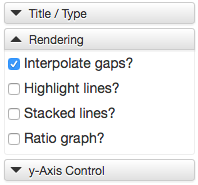
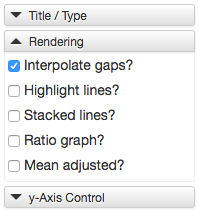
Fleshed out dygraph controls

Changed region(s): [[0.0, 0.0, 1.0, 0.8108], [0.0, 0.8378, 1.0, 0.973], [0.0606, 0.0541, 0.1212, 0.0811]]

diff --git a/user-guide.md b/user-guide.md
@@ -33,7 +33,7 @@ Various fields allow the specification of time periods. Aardvark uses the same s
 * **h** - hours
 * **d** - days
 * **w** - weeks
-* **n** - months
+* **n** - months - TODO
 * **y** - years
 
 ### Date/time formats
@@ -136,33 +136,40 @@ The dygraph renderer uses Dygraph to provide client-side rendered time series ch
 
 These options affect how time series are rendered. Some of these options may clash in unexpected ways, but full control is left to the user to mix and match as appropriate (unless otherwise noted).
 
-Gap interpolation draws a line between known points for a time series when there is another time series displayed with a point between them (this is only a gap in the data if you expect both time series to emit data points at the same time and no deduping of data points is occurring). If gap interpolation is disabled then a gap is shown in the time series.
-
-Highlight lines isn't really a rendering option, but more an interaction option - if enabled then hovering the mouse over a time series will highlight it in bold, useful for when you have many time series and want to pick on out.
-
-Stacked lines renders all time series on on top of the other, this includes baselines so mileage may vary there.
-
-Ratio graph renders each line by plotting the ratio of its value to the sum of all time series' values as a percentage at each point on the graph.
-
-Mean adjustment plots each line as a positive or negative difference from the average of all time series on a point by point basis. Quite handy when combined with a ratio graph to see how load is distributed across a cluster.
+* *Gap interpolation* - draws a line between known points for a time series when there is another time series displayed with a point between them (this is only a gap in the data if you expect both time series to emit data points at the same time and no deduping of data points is occurring). If gap interpolation is disabled then a gap is shown in the time series.
+* *Highlight lines* - isn't really a rendering option, but more an interaction option - if enabled then hovering the mouse over a time series will highlight it in bold, useful for when you have many time series and want to pick on out.
+* *Stacked lines* - renders all time series on on top of the other, this includes baselines so mileage may vary there.
+* *Ratio graph* - renders each line by plotting the ratio of its value to the sum of all time series' values as a percentage at each point on the graph.
+* *Mean adjusted* - plots each line as a positive or negative difference from the average of all time series on a point by point basis. Quite handy when combined with a ratio graph to see how load is distributed across a cluster. Incompatible with negative squashing.
 
 #### y-Axis controls
 
 ![dygraph y-axis options screenshot](graph_controls_dygraph_yaxis.png)
 
-TODO
+The dygraph renderer supports both a left (Y) and right (Y2) axis and each can be individually controlled:
+
+* *Squash -ve* - excludes negative points from the chart. Incompatible with mean adjusted charts.
+* *Auto scale* - Scales timeseries to the same order of magnitude using the max absolute value from each unique metric name. Incompatible with logarithmic axes
+* *Logarithmic y-axis* - plots points on a logarithmic scale (the default is linear). Incompatible with auto scaling.
+* *Range* - in the format *\[<min>:<max>\]* (where the square brackets, <min> and <max> are all optional. Limits the rendered points to those within the range given (inclusive).
+
 
 #### Annotations
 
 ![dygraph annotations options screenshot](graph_controls_dygraph_annotations.png)
 
-TODO
+The dygraph renderer supports annotation rendering:
+
+* *Annotations* - enables retrieval and display of annotations attached to any time series being rendered.
+* *Global annotations* - enables retrieval and display of any global annotations.
 
 #### Filtering controls
 
 ![dygraph filtering options screenshot](graph_controls_dygraph_filtering.png)
 
-TODO
+Aardvark supports additional filtering of results received from OpenTSDB prior to rendering, allowing a reduction in the number of time series displayed, 2 'modes' are supported, which are ANDed together to determine the final list of time series to be displayed:
+* *Count filtering* - Includes either the top n or bottom n set of series, based on an aggregation of all the values in the series.
+* *Value filtering* - Includes time series where points meet the value conditions you specify. These consider either every point in the series (in which case a single hit includes the series) or an aggregation of the series.
 
 ### Scatter renderer
 
@@ -174,8 +181,8 @@ The scatter renderer requires exactly 2 time series to be able to render and wil
 
 Control over the scatter renderer is currently limited to:
 
-* Squash negatives - if a negative is found in either series' value for a point then the point will be excluded.
-* Swap axes - changes metric assignment between the 2 axes. 
+* *Squash negatives* - if a negative is found in either series' value for a point then the point will be excluded.
+* *Swap axes* - changes metric assignment between the 2 axes. 
 
 ### Heatmap renderer
 
@@ -187,9 +194,9 @@ The heatmap renderer requires exactly 1 time series to be able to render.
 
 The style of calendar grid is selectable between:
 
-* Automatic - Selects week columns and day cells for periods over one year, day columns and hour cells otherwise
-* Week columns, day cells - shows a row per year with months highlighted
-* Day columns, hour cells - shows a grid per month
+* *Automatic* - Selects week columns and day cells for periods over one year, day columns and hour cells otherwise
+* *Week columns, day cells* - shows a row per year with months highlighted
+* *Day columns, hour cells* - shows a grid per month
  
 Filtering allows you to exclude values outside the selected range from the range of values included in the colour scheme, allowing you to see finer differences. Cells excluded by the filter are rendered in an off colour to distinguish from cells with no value.
  
